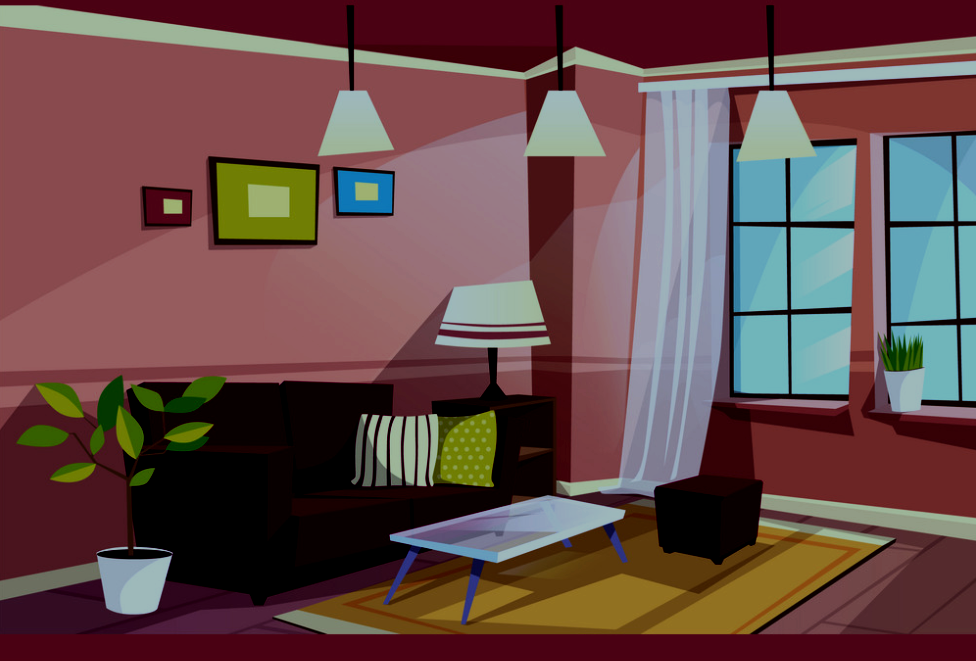
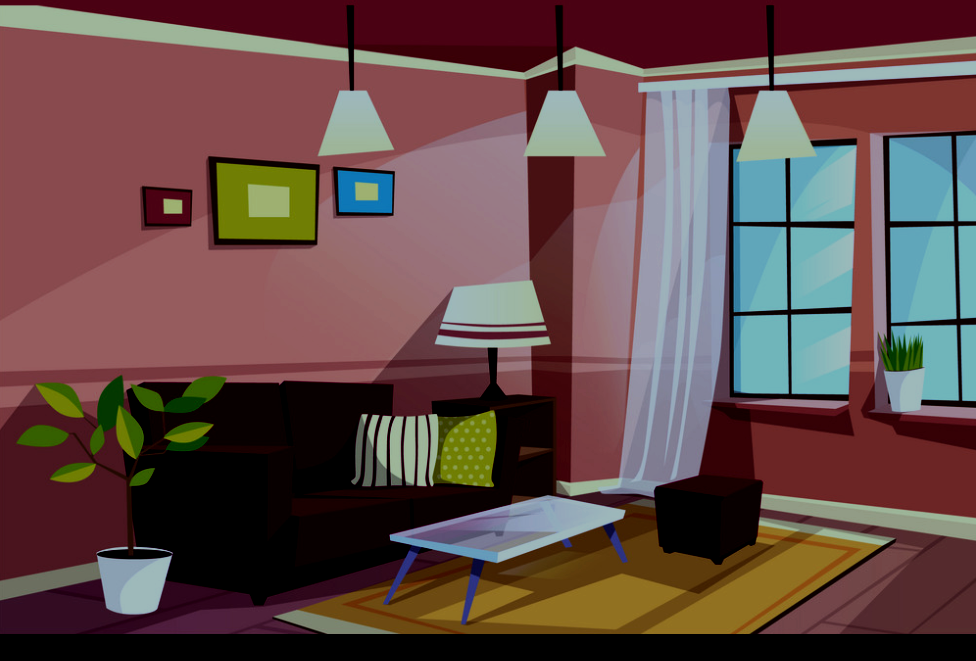
Commit 21 - Created function to grab a toy from an array and display a random toy on screen when Play button is clicked.

Changed region(s): [[0.0, 0.938, 1.0, 1.0]]

diff --git a/scripts/app.js b/scripts/app.js
@@ -43,17 +43,7 @@ console.log('Project Zero');
         
 */
 
-///////////////////////////////////////////////////
-           //   Button Selectors  //
-///////////////////////////////////////////////////
 
-// Start button
-const startGameBtn = document.getElementById(`start-game-button`);
-
-// Game control buttons
-const foodBtn = document.getElementById('food-button');
-const playBtn = document.getElementById('play-button');
-const sleepBtn = document.getElementById('sleep-button');
 
 ///////////////////////////////////////////////////
              //   Game Objects   //
@@ -129,15 +119,31 @@ function increaseStats() {
 /////////////////////////////////////////////
 
 // Food control button
+// function foodTime() {
+//     $(`.sprite`).attr(`id`, `sprite-food`);
+//     $(`.game-area-night`).attr(`class`, `game-area`);
+
+//     if (newCat.hunger > 0) {
+//         newCat.hunger = 0;
+//         renderStats();
+//     } 
+//     else $(`.sprite`).attr(`id`, `sprite`)
+// }
+
 function foodTime() {
     $(`.sprite`).attr(`id`, `sprite-food`);
     $(`.game-area-night`).attr(`class`, `game-area`);
 
     if (newCat.hunger > 0) {
         newCat.hunger = 0;
+
+        setTimeout(function() {
+            $(`.sprite`).attr(`id`, `sprite`);
+        }, 3000);
+
         renderStats();
     } 
-    else $(`.sprite`).attr(`id`, `sprite`)
+    else $(`.sprite`).attr(`id`, `sprite`);
 }
 
 // Play control button
@@ -148,6 +154,13 @@ function playTime() {
 
     if (newCat.boredom > 0) {
         newCat.boredom = 0;
+        populateToy();
+
+        setTimeout(function() {
+            $(`.sprite`).attr(`id`, `sprite`);
+            $(`.toy`).remove();
+        }, 3000);
+
         renderStats();
     }
     else $(`.sprite`).attr(`id`, `sprite`);
@@ -161,10 +174,35 @@ function sleepTime() {
 
     if (newCat.sleepiness > 0) {
         newCat.sleepiness = 0;
+
+        setTimeout(function() {
+            $(`.sprite`).attr(`id`, `sprite`);
+            $(`.game-area-night`).attr(`class`, `game-area`); 
+        }, 3000);
+
         renderStats();
     }
     else $(`.sprite`).attr(`id`, `sprite`)
     && $(`.game-area-night`).attr(`class`, `game-area`); 
+}
+
+/////////////////////////////////////////////
+           //   Random toy  //
+/////////////////////////////////////////////
+
+function getRandomToy() {
+
+    const toyList = ["mouse", "feather", "yarn", "fish",];
+
+    const randomNumber = Math.floor(Math.random() * 4);
+
+    return toyList[randomNumber];
+}
+
+function populateToy() {
+    const sendToy = $(`<div class="toy ${getRandomToy()}" />`);
+
+    $(`.sprite-area`).prepend(sendToy);
 }
 
 /////////////////////////////////////////////
@@ -174,6 +212,29 @@ function sleepTime() {
 function createStartSprite() {
     $(`.sprite`).attr(`id`, `sprite`);
 }
+
+/////////////////////////////////////////////
+       //   Create game controls   //
+/////////////////////////////////////////////
+
+// function createGameControls() {
+//     // Food button
+//     const createFoodBtn = $(`<button id="food-button">
+//     <img src="/assets/cat-food.png" alt="Feed me!" class="food-icon">
+//     </button>`);
+
+//     // Play button
+//     const createPlayBtn = $(`<button id="play-button">
+//     <img src="/assets/play-icon.png" alt="Play time!" class="play-icon">
+//     </button>`);
+
+//     // Sleep button
+//     const createSleepBtn = $(`<button id="sleep-button">
+//     <img src="/assets/sleep.png" alt="Sleep time!" class="sleep-icon">
+//     </button>`);
+
+//     $(`.game-controls`).append(createFoodBtn, createPlayBtn, createSleepBtn);
+// }
 
 /////////////////////////////////////////////
        //   Start button function   //
@@ -201,6 +262,18 @@ function runAway() {
         Your lack of love and care made ${newCat.name} run away!</p>`);
         $(`.game-controls`).append(runawayMessage);
 }
+
+///////////////////////////////////////////////////
+           //   Button Selectors  //
+///////////////////////////////////////////////////
+
+// Start button
+const startGameBtn = document.getElementById(`start-game-button`);
+
+// Game control buttons
+const foodBtn = document.getElementById('food-button');
+const playBtn = document.getElementById('play-button');
+const sleepBtn = document.getElementById('sleep-button');
 
 ////////////////////////////////////////////
          //   Event Listeners   //

diff --git a/styles/style.css b/styles/style.css
@@ -51,6 +51,7 @@ body {
     flex-direction: row;
     justify-content: space-between;
     align-items: flex-end;
+    font-size: 18px;
 }
 
 /* Game area styling */
@@ -74,7 +75,7 @@ body {
     grid-template-rows: 4fr 3fr 1fr;
     width: 950px;
     height: 720px;
-    background-image: url(/assets/background-livingroom-night1.png);
+    background-image: url(/assets/background-livingroom-night.png);
     background-size: inherit;
     background-repeat: no-repeat;
     background-color: #000000;
@@ -118,6 +119,8 @@ body {
 .sprite-area {
     align-self: end;
     justify-self: center;
+    display: flex;
+    flex-direction: row;
 }
 
 #sprite {
@@ -148,6 +151,30 @@ body {
     content: url(/assets/madcat.png);
     max-width: 275px;
     max-height: 275px;
+}
+
+/* Random Toy styling */
+
+.toy {
+    height: 100px;
+    margin: 10px;
+    align-self: flex-end;
+}
+
+.toy.mouse {
+    content: url(/assets/mouse-toy.png);
+}
+
+.toy.feather {
+    content: url(/assets/feather-toy.png);
+}
+
+.toy.yarn {
+    content: url(/assets/play-icon.png);
+}
+
+.toy.fish {
+    content: url(/assets/fish-toy.png);
 }
 
 /* Game button area style */

diff --git a/index.html b/index.html
@@ -69,16 +69,16 @@
             <!-- game controls-->
 
             <div class="game-controls">
+                
+           <!-- food button -->
+           <button id="food-button"><img src="/assets/cat-food.png" alt="Feed me!" class="food-icon"></button>
 
-            <!-- food button -->
-            <button id="food-button"><img src="/assets/cat-food.png" alt="Feed me!" class="food-icon"></button>
+           <!-- play button -->
+           <button id="play-button"><img src="/assets/play-icon.png" alt="Play time!" class="play-icon"></button>
 
-            <!-- play button -->
-            <button id="play-button"><img src="/assets/play-icon.png" alt="Play time!" class="play-icon"></button>
-
-            <!-- sleep button -->
-            <button id="sleep-button"><img src="/assets/sleep.png" alt="Sleep time!" class="sleep-icon"></button>
-
+           <!-- sleep button -->
+           <button id="sleep-button"><img src="/assets/sleep.png" alt="Sleep time!" class="sleep-icon"></button> 
+                
             </div>
 
         </div>
